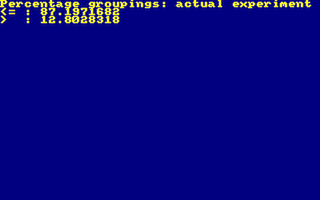
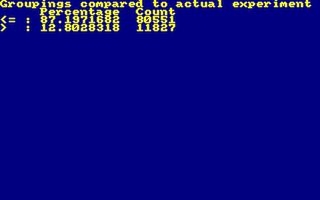
rosetta: permuta output improved

Changed region(s): [[0.0, 0.0, 0.5625, 0.18], [0.0625, 0.12, 0.0938, 0.15]]

diff --git a/rosetta/permuta.js b/rosetta/permuta.js
@@ -20,43 +20,44 @@ cpcBasic.addItem("", function () { /*
 210 FOR i=0 TO ntreated-1
 220   sel(i)=i
 230 NEXT
-240 GOSUB 310
+240 GOSUB 320
 250 percent=100*greater/groups
-260 PRINT "Percentage groupings: actual experiment"
-270 PRINT "<= :";100-percent
-280 PRINT ">  :";percent
-290 END
-300 '
-310 greater=0
-320 groups=0
-330 total=0
-340 FOR i=0 TO n-1
-350   total=total+results(i)
-360 NEXT
-370 GOSUB 560
-380 actual=meandiff
-390 WHILE 1
-400   GOSUB 560
-410   groups=groups+1
-420   IF meandiff>actual THEN greater=greater+1
-430   i=ntreated-1
-440   WHILE sel(i)=n-ntreated+i
-450     i=i-1
-460     IF i<0 THEN RETURN
-470   WEND
-480   sel(i)=sel(i)+1
-490   FOR i=i+1 TO ntreated-1
-500     sel(i)=sel(i-1)+1
-510   NEXT
-520 WEND
-530 RETURN
-540 '
-550 ' evaluate selected group
-560 tsum=0
-570 FOR i=0 TO ntreated-1
-580   tsum=tsum+results(sel(i))
-590 NEXT
-600 psum=total-tsum
-610 meandiff=tsum/ntreated-psum/nplacebo
-620 RETURN
+260 PRINT "Groupings compared to actual experiment"
+270 PRINT "     Percentage  Count"
+280 PRINT "<= :";100-percent;groups-greater
+290 PRINT ">  :";percent;greater
+300 END
+310 '
+320 greater=0
+330 groups=0
+340 total=0
+350 FOR i=0 TO n-1
+360   total=total+results(i)
+370 NEXT
+380 GOSUB 570
+390 actual=meandiff
+400 WHILE 1
+410   GOSUB 570
+420   groups=groups+1
+430   IF meandiff>actual THEN greater=greater+1
+440   i=ntreated-1
+450   WHILE sel(i)=n-ntreated+i
+460     i=i-1
+470     IF i<0 THEN RETURN
+480   WEND
+490   sel(i)=sel(i)+1
+500   FOR i=i+1 TO ntreated-1
+510     sel(i)=sel(i-1)+1
+520   NEXT
+530 WEND
+540 RETURN
+550 '
+560 ' evaluate selected group
+570 tsum=0
+580 FOR i=0 TO ntreated-1
+590   tsum=tsum+results(sel(i))
+600 NEXT
+610 psum=total-tsum
+620 meandiff=tsum/ntreated-psum/nplacebo
+630 RETURN
 */ });
